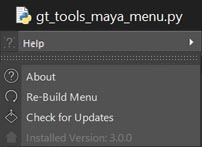
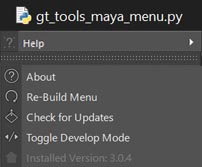
Added toggle develop mode description

diff --git a/docs/README.md b/docs/README.md
@@ -146,6 +146,8 @@ After installing, you can delete the downloaded/extracted files (as they have al
 
 <p><b>Help > Check for Updates: </b><br>Opens the script "gt_check_for_updates" to compare your version with the latest release.</p>
 
+<p><b>Help > Toggle Develop Mode: </b>Toggles the state of development mode. When active a new sub-menu "Develop" appears under the main drop-down menu. This sub-menu contains tools and functions used for the development of new tools.</p>
+
 <p><b>Help > Installed Version: </b>What version is currently installed.</p>
 <br>
 </div>
